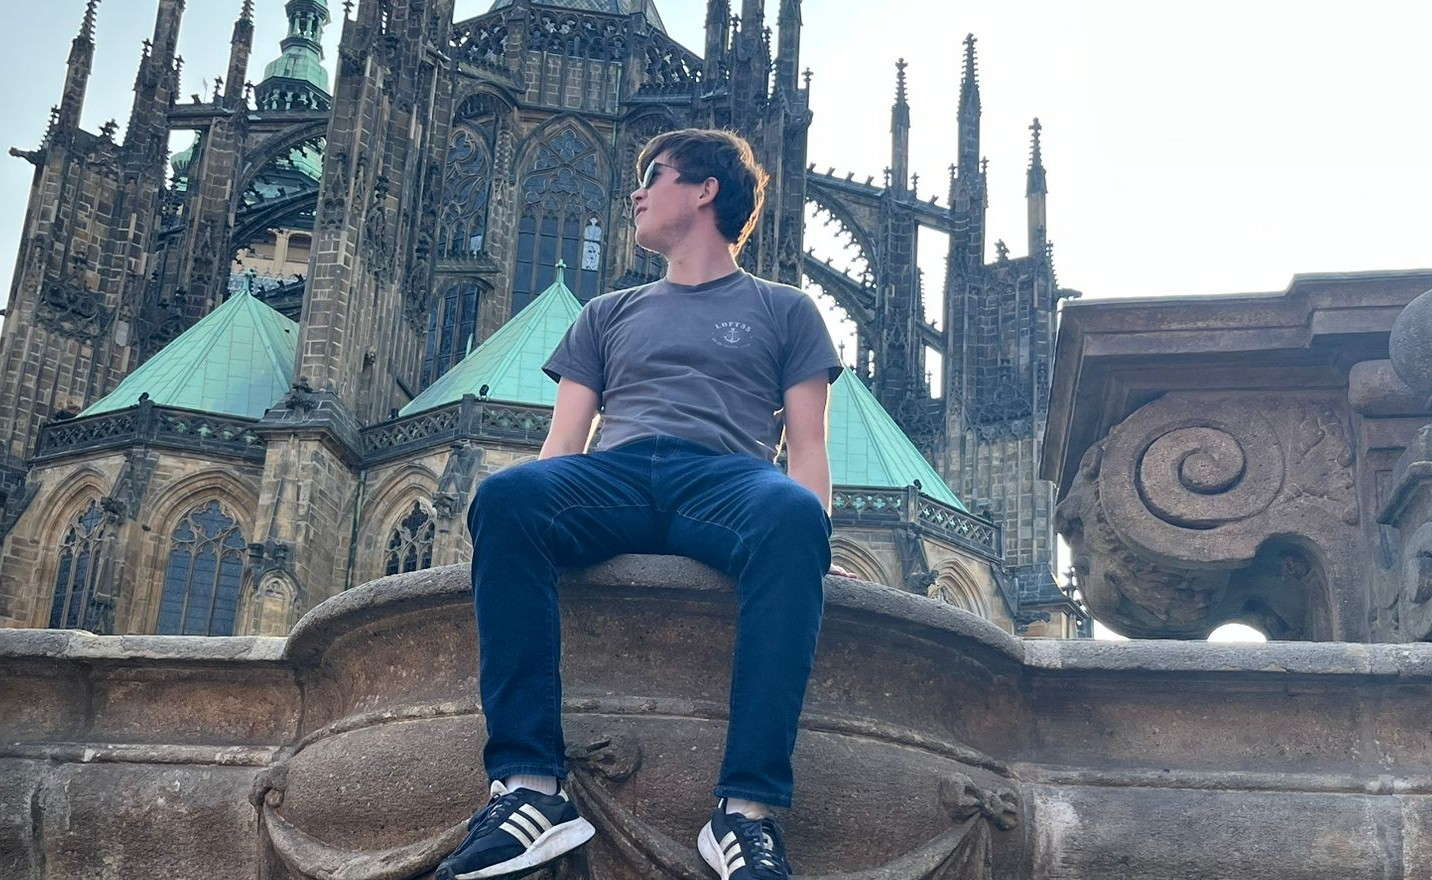
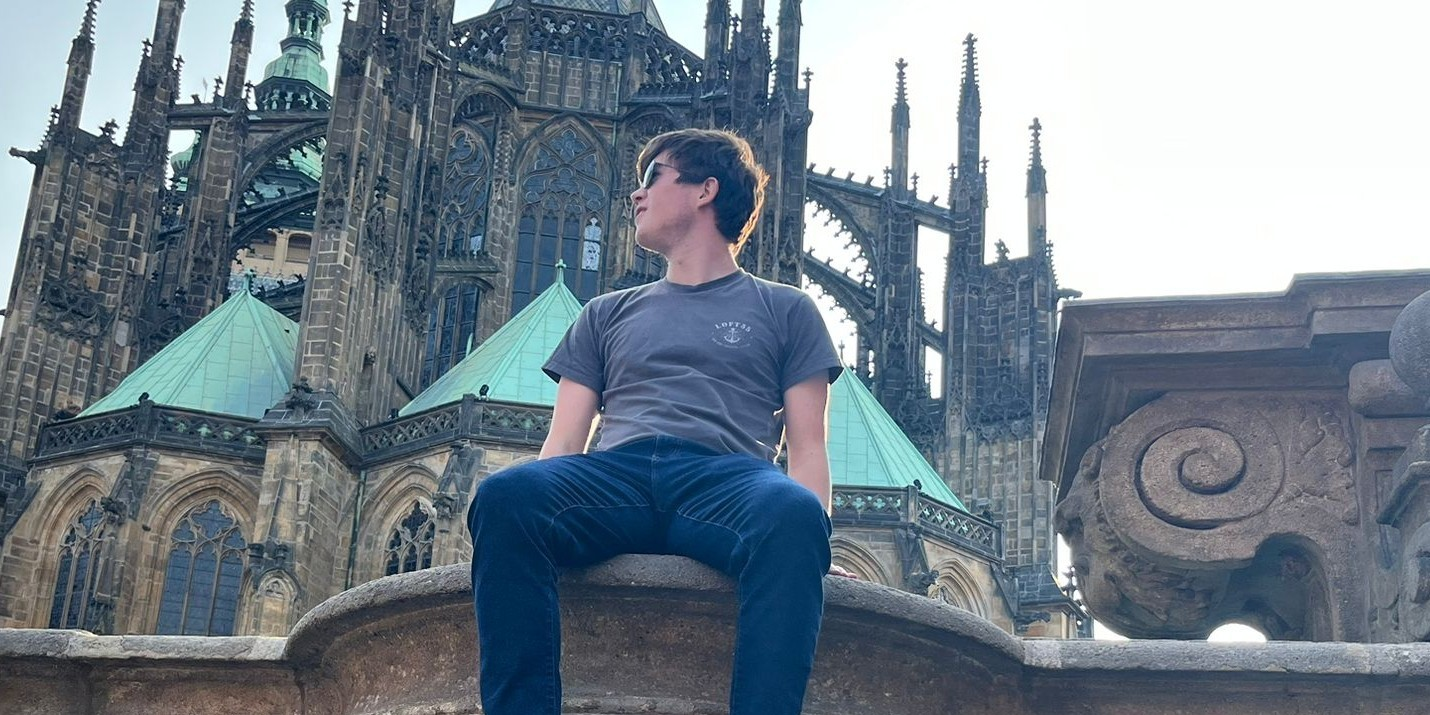
settled on a much more simplistic design for the homepage - next I will look into nicer fonts, styling and reactive components

diff --git a/src/pages/Home.jsx b/src/pages/Home.jsx
@@ -6,63 +6,52 @@ export default function Home() {
         <div id="home">
 
                 <div id="intro">
-
-                    <img id="hero" src="hero-img.jpeg" />
-
-                    <h1 id="title">James Clarke</h1>
-
-                    <p id="intro-text">
-                        My name is James, I'm a student at the University Exeter; an engineer at Amulet 
-                        Hotkey; and an athlete at EUMHC.
-                    </p>
-
+                    <div id="intro-text">
+                        <h1>Hi!, I'm James Clarke</h1>
+                        <p>
+                            Software Engineer, Student and Athlete.
+                        </p>
+                    </div>
+                    <img id="intro-img" src="favicon.png" />
                 </div>
+                <div id="rows">
+                    <div id="row1">
+                        <p className="block">
+                            I am student at the University of Exeter studying BSc Computer Science with
+                            Industrial Experience.
 
-                <div id="texts">
+                            I am a student software engineer at Amulet Hotkey helping to develop embedded 
+                            systems and automated tooling.
+                        </p>
+                        <p className="block">
+                            Average grade pp 64% having completed key modules: Machine Learning, C Family, 
+                            Object Oriented Programming and Web Development.
 
-
-                    <p className="block">
-                        I am student at the University of Exeter studying BSc Computer Science with
-                        Industrial Experience.
-
-                        I am a student software engineer at Amulet Hotkey helping to develop embedded 
-                        systems and automated tooling.
-                    </p>
-
-                    <p className="block">
-                        Average grade pp 64% having completed key modules: Machine Learning, C Family, 
-                        Object Oriented Programming and Web Development.
-
-                        I am an active member of both Exeter CS Society and Exeter Cybersecurity Society,
-                        having attended Cyberus summer school as a representative for the University.
-                    </p>
-
-                    <p className="block">
-                        I have a strong portfolio of personal projects and hackathon entries; built from 
-                        a passion for creating amongst a number of dsciplines including AI, cybersecurity,
-                        embedded systems and blockchain technologies.
-                    </p>
-
-
-
-                    <p className="block">
-                        Over the last 2 years I have played for EUMHC, having been lucky enough to win a BUCS
-                        championship with the second team and (sort of) win promotion to the national prem 
-                        with the first team.
-                    </p>
-
-                    <p className="block">
-                        Hockey has been one of the most formative experiences of my life, and much of my 
-                        professional mentality has been derived from lessons first taught on the pitch.
-                    </p>
-
-                    <p className="block">
-                        I will soon be pursuing a project relating my work with embedded systems and 
-                        ML algorithms to my experience with the role of data in hockey
-                    </p>
-
+                            I am an active member of both Exeter CS Society and Exeter Cybersecurity Society,
+                            having attended Cyberus summer school as a representative for the University.
+                        </p>
+                        <p className="block">
+                            I have a strong portfolio of personal projects and hackathon entries; built from 
+                            a passion for creating amongst a number of dsciplines including AI, cybersecurity,
+                            embedded systems and blockchain technologies.
+                        </p>
+                    </div>
+                    <div id="row2">
+                        <p className="block">
+                            Over the last 2 years I have played for EUMHC, having been lucky enough to win a BUCS
+                            championship with the second team and (sort of) win promotion to the national prem 
+                            with the first team.
+                        </p>
+                        <p className="block">
+                            Hockey has been one of the most formative experiences of my life, and much of my 
+                            professional mentality has been derived from lessons first taught on the pitch.
+                        </p>
+                        <p className="block">
+                            I will soon be pursuing a project relating my work with embedded systems and 
+                            ML algorithms to my experience with the role of data in hockey
+                        </p>
+                    </div>
                 </div>
-
         </div>
 )
 }

diff --git a/src/styles/home.css b/src/styles/home.css
@@ -1,41 +1,30 @@
-#home {
-    display: flex;
-    flex-direction: column;
-    align-items: center;
-}
-
 #intro {
-    width: 100vw;
-    height: auto;
-    background-color: white;
-}
-
-#hero{
-    width: 100vw;
-    height: auto;
-    object-fit: cover;
-}
-
-#title {
-    position: absolute;
-    left: 50%;
-    transform: translateX(-50%);
-    top: 15%;
-    background-color: white;
-    color: navy;
-    padding: 1rem;
-    border-radius: 1rem;
+    display: flex;
+    flex-direction: row;
+    gap: 5rem;
+    margin: 5rem;
 }
 
 #intro-text {
-    position: absolute;
-    left: 50%;
-    transform: translateX(-50%);
-    top: 40%;
-    background-color: white;
-    color: navy;
-    padding: 0.5rem;
+    height: auto;
+    background-color: navy;
+    color: white;
+    padding: 2rem;
     border-radius: 0.5rem;
+    width: fit-content;
+}
+
+#intro-text > h1 {
+    font-size: 6rem;
+}
+
+#intro-text > p {
+    font-size: 2rem;
+}
+
+#intro-img {
+    height: 25rem;
+    width: 25rem;
 }
 
 .block {
@@ -43,11 +32,24 @@
     color: white;
     padding: 0.5rem;
     border-radius: 0.5rem;
-    max-width: 20rem;
+    width: 35rem;
+    font-size: 1.5rem;
 }
 
-.block:hover {
-    box-shadow: 2rem;
-    background-color: blue;
-    cursor: pointer;
+#rows {
+    display: flex;
+    flex-direction: column;
+    align-items: center;
+}
+
+#row1 {
+    display: flex;
+    flex-direction: row;
+    gap: 2rem;
+}
+
+#row2 {
+    display: flex;
+    flex-direction: row;
+    gap: 2rem;
 }
